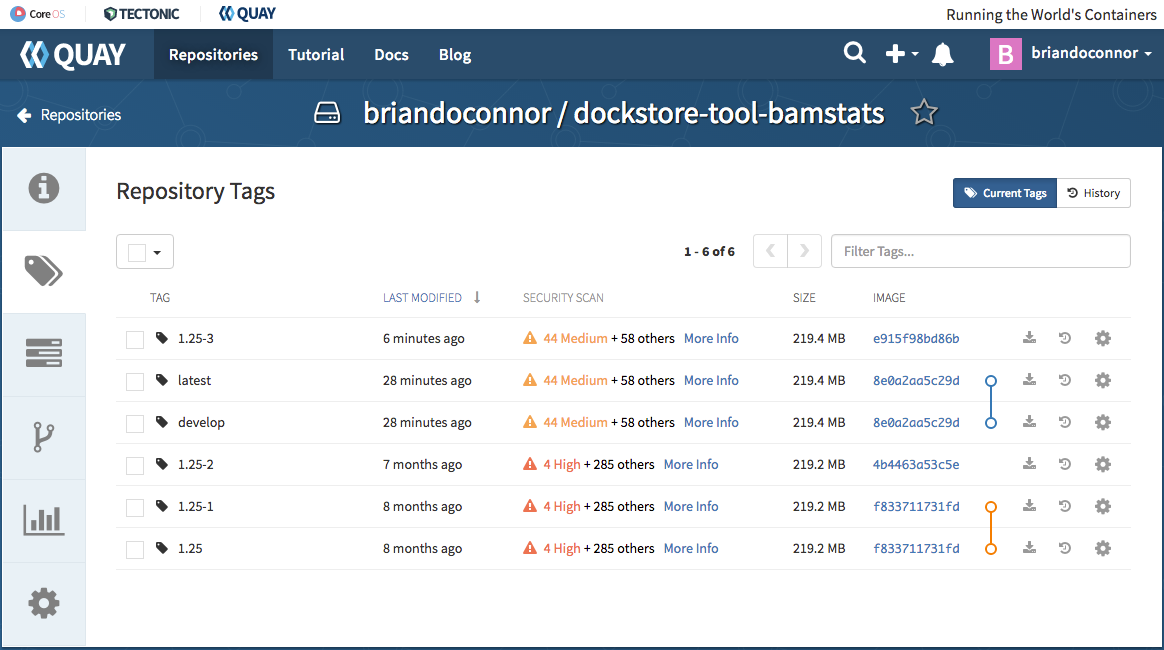
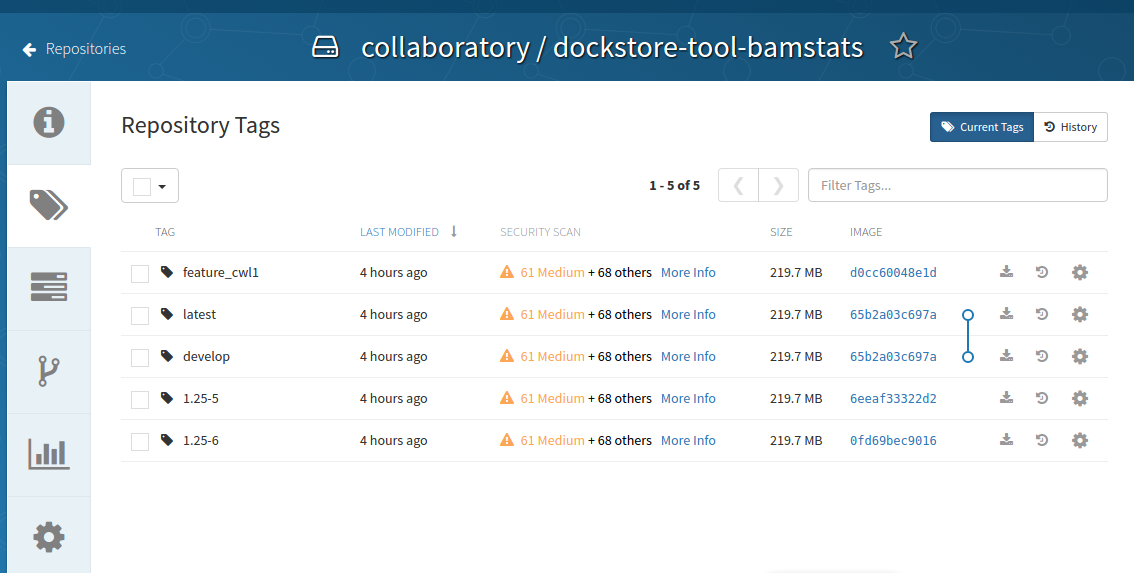
Update to new location of tutorial

diff --git a/app/views/onboarding.html b/app/views/onboarding.html
@@ -118,7 +118,7 @@ server-url: {{dsServerURI}}</div>
             <code>pip --version</code>
           </li>
           <li>
-            Run these commands to install cwltool <code>pip install setuptools==24.0.3</code><br><code>pip install cwl-runner cwltool==1.0.20160316150250 schema-salad==1.7.20160316150109 avro==1.7.7</code>
+            Run these commands to install cwltool <code>pip install setuptools==24.0.3</code><br><code>pip install cwl-runner cwltool==1.0.20160712154127 schema-salad==1.14.20160708181155 avro==1.8.1</code>
           </li>
           <li>
             Run this to verify that cwltool has been installed properly

diff --git a/app/docs/getting-started-with-cwl.md b/app/docs/getting-started-with-cwl.md
@@ -15,28 +15,28 @@ It is recommended that you have the following minimum fields:
     dct:creator:
       foaf:name: <name>
 
-Again, we provide an example from the [dockstore-tool-bamstats](https://github.com/briandoconnor/dockstore-tool-bamstats) repository:
+Again, we provide an example from the [dockstore-tool-bamstats](https://github.com/CancerCollaboratory/dockstore-tool-bamstats) repository:
 
     #!/usr/bin/env cwl-runner
     
     class: CommandLineTool
     id: "BAMStats"
     label: "BAMStats tool"
-    cwlVersion: v1.0
+    cwlVersion: v1.0 
     description: |
-        ![build_status](https://quay.io/repository/briandoconnor/dockstore-tool-bamstats/status)
+        ![build_status](https://quay.io/repository/collaboratory/dockstore-tool-bamstats/status)
         A Docker container for the BAMStats command. See the [BAMStats](http://bamstats.sourceforge.net/) website for more information.
         ```
         Usage:
         # fetch CWL
-        $> dockstore tool cwl --entry quay.io/briandoconnor/dockstore-tool-bamstats:1.25-5 > Dockstore.cwl
+        $> dockstore tool cwl --entry quay.io/collaboratory/dockstore-tool-bamstats:1.25-5 > Dockstore.cwl
         # make a runtime JSON template and edit it (or use the content of sample_configs.json in this git repo)
         $> dockstore tool convert cwl2json --cwl Dockstore.cwl > Dockstore.json
         # run it locally with the Dockstore CLI
-        $> dockstore tool launch --entry quay.io/briandoconnor/dockstore-tool-bamstats:1.25-5 \
+        $> dockstore tool launch --entry quay.io/collaboratory/dockstore-tool-bamstats:1.25-5 \
             --json Dockstore.json
         ```
-    
+
     dct:creator:
       "@id": "http://orcid.org/0000-0002-7681-6415"
       foaf:name: Brian O'Connor
@@ -44,7 +44,7 @@ Again, we provide an example from the [dockstore-tool-bamstats](https://github.c
     
     requirements:
       - class: DockerRequirement
-        dockerPull: "quay.io/briandoconnor/dockstore-tool-bamstats:1.25-6"
+        dockerPull: "quay.io/collaboratory/dockstore-tool-bamstats:1.25-6"
     
     hints:
       - class: ResourceRequirement
@@ -109,7 +109,7 @@ This section includes the tool author referenced by Dockstore. It is open to you
 ```
 requirements:
   - class: DockerRequirement
-    dockerPull: "quay.io/briandoconnor/dockstore-tool-bamstats:1.25-3"
+    dockerPull: "quay.io/collaboratory/dockstore-tool-bamstats:1.25-3"
 ```
 
 This section links the Docker image used to this CWL.  Notice it's exactly the same as the `-t` you used when building your image.
@@ -140,7 +140,7 @@ This may or may not be honoured by the tool calling this CWL but at least it giv
         inputBinding:
           position: 2
 
-This is one of the items from the inputs section.  Notice a few things, first, the `#bam_input` matches with `bam_input` in the sample parameterization JSON.
+This is one of the items from the inputs section.  Notice a few things, first, the `bam_input:` matches with `bam_input` in the sample parameterization JSON.
 Also, you can control the position of the variable, it can have a type (int or File here), and, for tools that require a prefix (`--prefix`) before a
 parameter you can use the `prefix` key:value in the inputBindings section.
 
@@ -305,7 +305,7 @@ tag and also my CWL file.  GitHub makes it very easy to release:
 
 ![Release](docs/release.png)
 
-I click on "releases" in my GitHub project [page](https://github.com/briandoconnor/dockstore-tool-bamstats) and then follow the directions to create a new release. Simple as that!
+I click on "releases" in my GitHub project [page](https://github.com/CancerCollaboratory/dockstore-tool-bamstats) and then follow the directions to create a new release. Simple as that!
 
 **Tip:** [HubFlow](https://datasift.github.io/gitflow/) is an excellent way to manage the lifecycle of releases on GitHub.  Take a look!
 
@@ -326,13 +326,13 @@ Log onto Quay now and setup a new repository (click the "+" icon).
 
 ![New Quay Repo](docs/quay_new_repo.png)
 
-You must match the name to what I was using previously, so in this case it's `briandoconnor` / `dockstore-tool-bamstats`.  Also, Dockstore will
+You must match the name to what I was using previously, so in this case it's `CancerCollaboratory` / `dockstore-tool-bamstats`.  Also, Dockstore will
 only work with `Public` repositories currently.
 Notice I'm selecting "Link to a GitHub Repository Push", this is because we want Quay to automatically build our Docker image
 every time we update the repository on GitHub.  Very slick!
 
 It will automatically prompt you to setup a "build trigger" after GitHub authenticates you.  Here I select the GitHub repo
-for `briandoconnor/dockstore-tool-bamstats`.
+for `CancerCollaboratory/dockstore-tool-bamstats`.
 
 ![Build Trigger](docs/build_trigger.png)
 

diff --git a/app/docs/getting-started-with-docker.md b/app/docs/getting-started-with-docker.md
@@ -10,7 +10,7 @@ Docker is a fantastic tool for creating light-weight containers to run your tool
 0. use the release process on GitHub or Bitbucket to make distinct release tags
 0. setup Quay.io (or Docker Hub) to automatically build your Docker image
 
-See the [dockstore-tool-bamstats](https://github.com/briandoconnor/dockstore-tool-bamstats) repository on GitHub which we created as an example. This is linked to the quay.io repository at [dockstore-tool-bamstats](https://quay.io/repository/briandoconnor/dockstore-tool-bamstats).
+See the [dockstore-tool-bamstats](https://github.com/CancerCollaboratory/dockstore-tool-bamstats) repository on GitHub which we created as an example. This is linked to the quay.io repository at [dockstore-tool-bamstats](https://quay.io/repository/collaboratory/dockstore-tool-bamstats).
 
 For the rest of this tutorial, you may wish to work in your own repository with your own tool or "fork" the repository above into your own GitHub account. 
 
@@ -21,7 +21,7 @@ dependencies of BAMStats along with the executable itself.
 
 ## Creating a Dockerfile
 
-Here's my sample [Dockerfile](https://github.com/briandoconnor/dockstore-tool-bamstats/blob/develop/Dockerfile):
+Here's my sample [Dockerfile](https://github.com/CancerCollaboratory/dockstore-tool-bamstats/blob/develop/Dockerfile):
 
 
     #############################################################
@@ -117,14 +117,14 @@ An important thing to note, this `Dockerfile` just really scratches the surface.
 for a really terrific in-depth look at writing Dockerfiles.
 
 
-Read more on the development process at [https://docs.docker.com...](https://docs.docker.com/). For information on building your Docker image on Quay.io we recommend their [tutorial](https://quay.io/tutorial/).
+Read more on the development process at [https://docs.docker.com](https://docs.docker.com/). For information on building your Docker image on Quay.io we recommend their [tutorial](https://quay.io/tutorial/).
 
 ## Building Docker Images
 
 Now that you've created the `Dockerfile` the next step is to build the image.
 The docker command line is used for this:
 
-    $> docker build -t quay.io/briandoconnor/dockstore-tool-bamstats:1.25-3 .
+    $> docker build -t quay.io/collaboratory/dockstore-tool-bamstats:1.25-3 .
 
 The `.` is the path to the location of the Dockerfile, which is in the same directory here.
 The `-t` parameter is the "tag" that this Docker image will be called locally
@@ -133,8 +133,8 @@ of the tag typically denotes that this was built on Quay.io (which we will see i
 the next section).  I'm manually specifying this tag so it will match the quay.io
 built version.  This allows me to build and test locally then, eventually,
 switch over to the quay.io-built version.  The next part of the tag,
-`briandoconnor/dockstore-tool-bamstats`, denotes the name of the tool which
-is derived from the organization and repository name on GitHub.  Finally `1.25-3`
+`collaboratory/dockstore-tool-bamstats`, denotes the name of the tool which
+is derived from the organization and repository name on Quay.io.  Finally `1.25-3`
 denotes a version string, typically you want to sync that with releases on GitHub.
 In this case I'm working on release `1.25-3` so this is on a release branch.  However
 the most recent release via GitHub is the previous version `1.25-2`.  The
@@ -152,7 +152,7 @@ something like:
 Check that the tool is now in your local Docker image cache:
 
     $> docker images | grep bamstats  
-    quay.io/briandoconnor/dockstore-tool-bamstats   1.25-3  01a7ccf55063   2 minutes ago   538.3 MB
+    quay.io/collaboratory/dockstore-tool-bamstats   1.25-3  01a7ccf55063   2 minutes ago   538.3 MB
 
 Great! This looks fine!
 
@@ -167,7 +167,7 @@ a new tool there might be multiple rounds of `docker build`, followed by tesing 
 the Docker image, launching it as a container (make sure you launch on a host with
 at least 8GB of RAM and dozens of GB of disk space!):
 
-    $> docker run -it -v `pwd`:/home/ubuntu quay.io/briandoconnor/dockstore-tool-bamstats:1.25-3 /bin/bash
+    $> docker run -it -v `pwd`:/home/ubuntu quay.io/collaboratory/dockstore-tool-bamstats:1.25-3 /bin/bash
 
 You'll be dropped into a bash shell which works just like the Linux environments
 you normally work in.  I'll come back to what `-v` is doing in a bit.

diff --git a/app/docs/getting-started.md b/app/docs/getting-started.md
@@ -4,7 +4,7 @@ In this guide we will start with creating a simple Docker-based tool, sharing it
 
 ## Sign Up for Accounts
 
-Dockstore is powered by [Quay.io](https://quay.io/) and [Docker Hub](https://hub.docker.com/), for storing Docker images, and [GitHub](https://github.com/) and [Bitbucket](https://bitbucket.org/) for storing the build file (`Dockerfile`) and metadata descriptor file (`Dockstore.cwl or Dockstore.wdl`) that are used by this site.  Since the Dockstore does not permanently store your Docker images, your Dockerfile, or your Dockstore.cwl metadata file, you are free to use all the excellent features of Quay.io/Docker Hub and GitHub/Bitbucket.  If you are already using these services then you will appreciate the fact that registering your Docker images on Dockstore is extremely easy and requires very little interruption to the way you work already.  For those of you that use [Docker Hub](https://hub.docker.com/), an extremely popular Docker registry, we are planning on adding enhanced support for features in the near future.  For now, we recommend users of Dockstore sign up for both Quay.io and GitHub/Bitbucket accounts to host their Docker images and build/metadata files respectively.  Partial support for Docker Hub is available, but it requires manual entry of image and tag data on Dockstore. If you are already building your Docker images on Docker Hub automatically it takes just minutes to setup a comparable build on Quay.io.
+Dockstore is powered by [Quay.io](https://quay.io/) and [Docker Hub](https://hub.docker.com/), for storing Docker images, and [GitHub](https://github.com/) and [Bitbucket](https://bitbucket.org/) for storing the build file (`Dockerfile`) and metadata descriptor file (`Dockstore.cwl` or `Dockstore.wdl`) that are used by this site.  Since the Dockstore does not permanently store your Docker images, your Dockerfile, or your Dockstore.cwl metadata file, you are free to use all the excellent features of Quay.io/Docker Hub and GitHub/Bitbucket.  If you are already using these services then you will appreciate the fact that registering your Docker images on Dockstore is extremely easy and requires very little interruption to the way you work already.  For those of you that use [Docker Hub](https://hub.docker.com/), an extremely popular Docker registry, we are planning on adding enhanced support for features in the near future.  For now, we recommend users of Dockstore sign up for both Quay.io and GitHub/Bitbucket accounts to host their Docker images and build/metadata files respectively.  Partial support for Docker Hub is available, but it requires manual entry of image and tag data on Dockstore. If you are already building your Docker images on Docker Hub automatically it takes just minutes to setup a comparable build on Quay.io.
 
 * [Sign up for an account on GitHub...](https://github.com/) (Required for authentication.)
 * [Sign up for an account on Bitbucket...](https://bitbucket.org/) (Optional)
@@ -16,12 +16,12 @@ Dockstore is powered by [Quay.io](https://quay.io/) and [Docker Hub](https://hub
 When going through the onboarding wizard, our various dependencies were introduced. Verify that they are properly installed by opening a terminal and executing the following. You should see very similar output. If there are errors make sure you follow the setup instructions carefully:
 
     $> java -version
-    java version "1.8.0_91"
-    Java(TM) SE Runtime Environment (build 1.8.0_91-b14)
-    Java HotSpot(TM) 64-Bit Server VM (build 25.91-b14, mixed mode)
+    java version "1.8.0_101"
+    Java(TM) SE Runtime Environment (build 1.8.0_101-b13)
+    Java HotSpot(TM) 64-Bit Server VM (build 25.101-b13, mixed mode)
 
     $> docker --version
-    Docker version 1.11.1, build 5604cbe
+    Docker version 1.12.0, build 8eab29e
 
     $> cwltool --version
     /usr/local/bin/cwltool 1.0.20160712154127

diff --git a/app/docs/launch.md b/app/docs/launch.md
@@ -13,11 +13,7 @@ Now that you have a tool registered on Dockstore you may want to test it out for
   0. if outputs are specified as remote URLs, copy the results to these locations
 0. download tool descriptor files `dockstore tool cwl` and `dockstore tool wdl`
 
-Note that launching a CWL tool locally requires the cwltool to be installed. To install the version that we have tested with, run the following in Ubuntu
-
-    pip install --user cwl-runner cwltool==1.0.20160323212343 schema-salad==1.7.20160316203940 avro==1.7.7
-
-You may need to install pip as well. 
+Note that launching a CWL tool locally requires the cwltool to be installed. Check [onboarding](onboarding) if you have not already to ensure that your dependencies are correct. 
 
 ## Launch Workflows
 

diff --git a/app/docs/getting-started-with-dockstore.md b/app/docs/getting-started-with-dockstore.md
@@ -40,7 +40,7 @@ For the tutorial, generally, you should hit the "Refresh All Tools" button to ma
                   
  ![Refresh](docs/dockstore_refresh.png)
                   
-Now select the `briandoconnor/dockstore-tool-bamstats` repository and click "Publish".  The tool is now listed on Dockstore!
+Now select the `collaboratory/dockstore-tool-bamstats` repository and click "Publish".  The tool is now listed on Dockstore!
                   
 ![Publish](docs/publish.png)
                   
